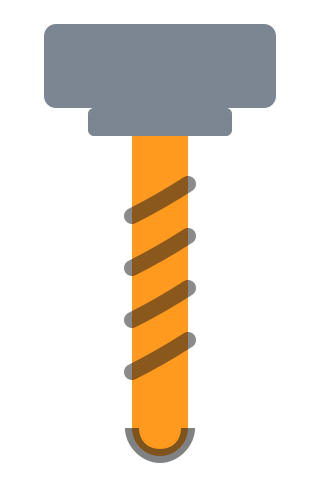
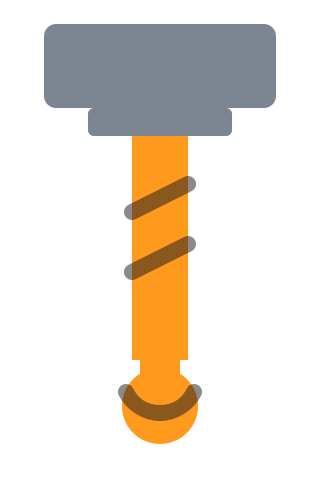
La demi-ronde ne se confond plus avec la droite
Un bout rond de MEME diametre que le corps ne differe de la fraise droite
que par un rayon de 14 sur un outil de 160 : c'est geometriquement exact et
visuellement invisible. Le bout est desormais PLUS LARGE que le corps — 76
px contre 56 au rendu — soit une hemispherique a col degage, qui existe, et
la seule exageration qui rende la difference lisible a la taille du cadre.

Attention en la retouchant : ma premiere tentative en avait fait une bille
au bout d'une tige, et elle se confondait alors avec le PALPEUR. Celui-ci
garde donc une bille PETITE et GRISE au bout d'une tige fine, la ou la
fraise a un bout rond ORANGE dans le prolongement de son corps. Deplacer
l'une oblige a regarder l'autre.

Retire au passage la semelle debordante que j'avais mise sous la fraise
droite : c'etait un mensonge geometrique, et une fraise a semelle
debordante est un autre outil — une affleureuse a roulement. Le fond plat
se dit par son arete de bout, pleine largeur et bien marquee, qui s'oppose
a l'arete courbe de la demi-ronde.

LECON DE METHODE, consignee : juger les dessins A LA TAILLE DU CADRE,
159x192, et pas agrandis. Un montage a grande echelle m'a fait croire que
la demi-ronde etait plus etroite que la droite ; la mesure au pixel disait
56 contre 56. C'est l'oeil qui se trompait, pas le fichier.

diff --git a/CLAUDE.md b/CLAUDE.md
@@ -270,6 +270,20 @@ Deux reprises après retour de l'atelier, toutes deux sur la silhouette :
 * **la fraise en V était une aiguille** — 28 de large sur 78 de haut, soit
   20° d'angle. Une vraie est large et courte : 60 sur 52, environ 60°, et
   son diamètre de coupe **dépasse la queue**, ce qui la signe de loin.
+* **la demi-ronde ne se distinguait pas de la droite** : un bout rond de même
+  diamètre que le corps n'en diffère que par un rayon de 14 sur 160, ce qui
+  ne se voit pas. Son bout est désormais **plus large que le corps** (76 px
+  contre 56 au rendu) — géométriquement une hémisphérique à col dégagé, et la
+  seule exagération qui rende la différence lisible. Attention en la
+  retouchant : la première tentative en avait fait une bille au bout d'une
+  tige, et elle se confondait alors avec le **palpeur**. Celui-ci garde donc
+  une bille PETITE et GRISE au bout d'une tige fine, là où la fraise a un
+  bout rond ORANGE dans le prolongement de son corps.
+
+**Juger les dessins à la taille du cadre, 159×192, et pas agrandis.** Un
+montage à grande échelle m'a fait croire que la demi-ronde était plus étroite
+que la droite ; la mesure au pixel disait 56 contre 56. C'est l'œil qui se
+trompait, pas le fichier.
 
 Neuf dessins : `fraise_droite`, `fraise_demi_ronde`, `fraise_v`, `foret`,
 `surfaceuse`, `palpeur`, `laser`, `inconnu`, `aucun`. Le **laser manquait
